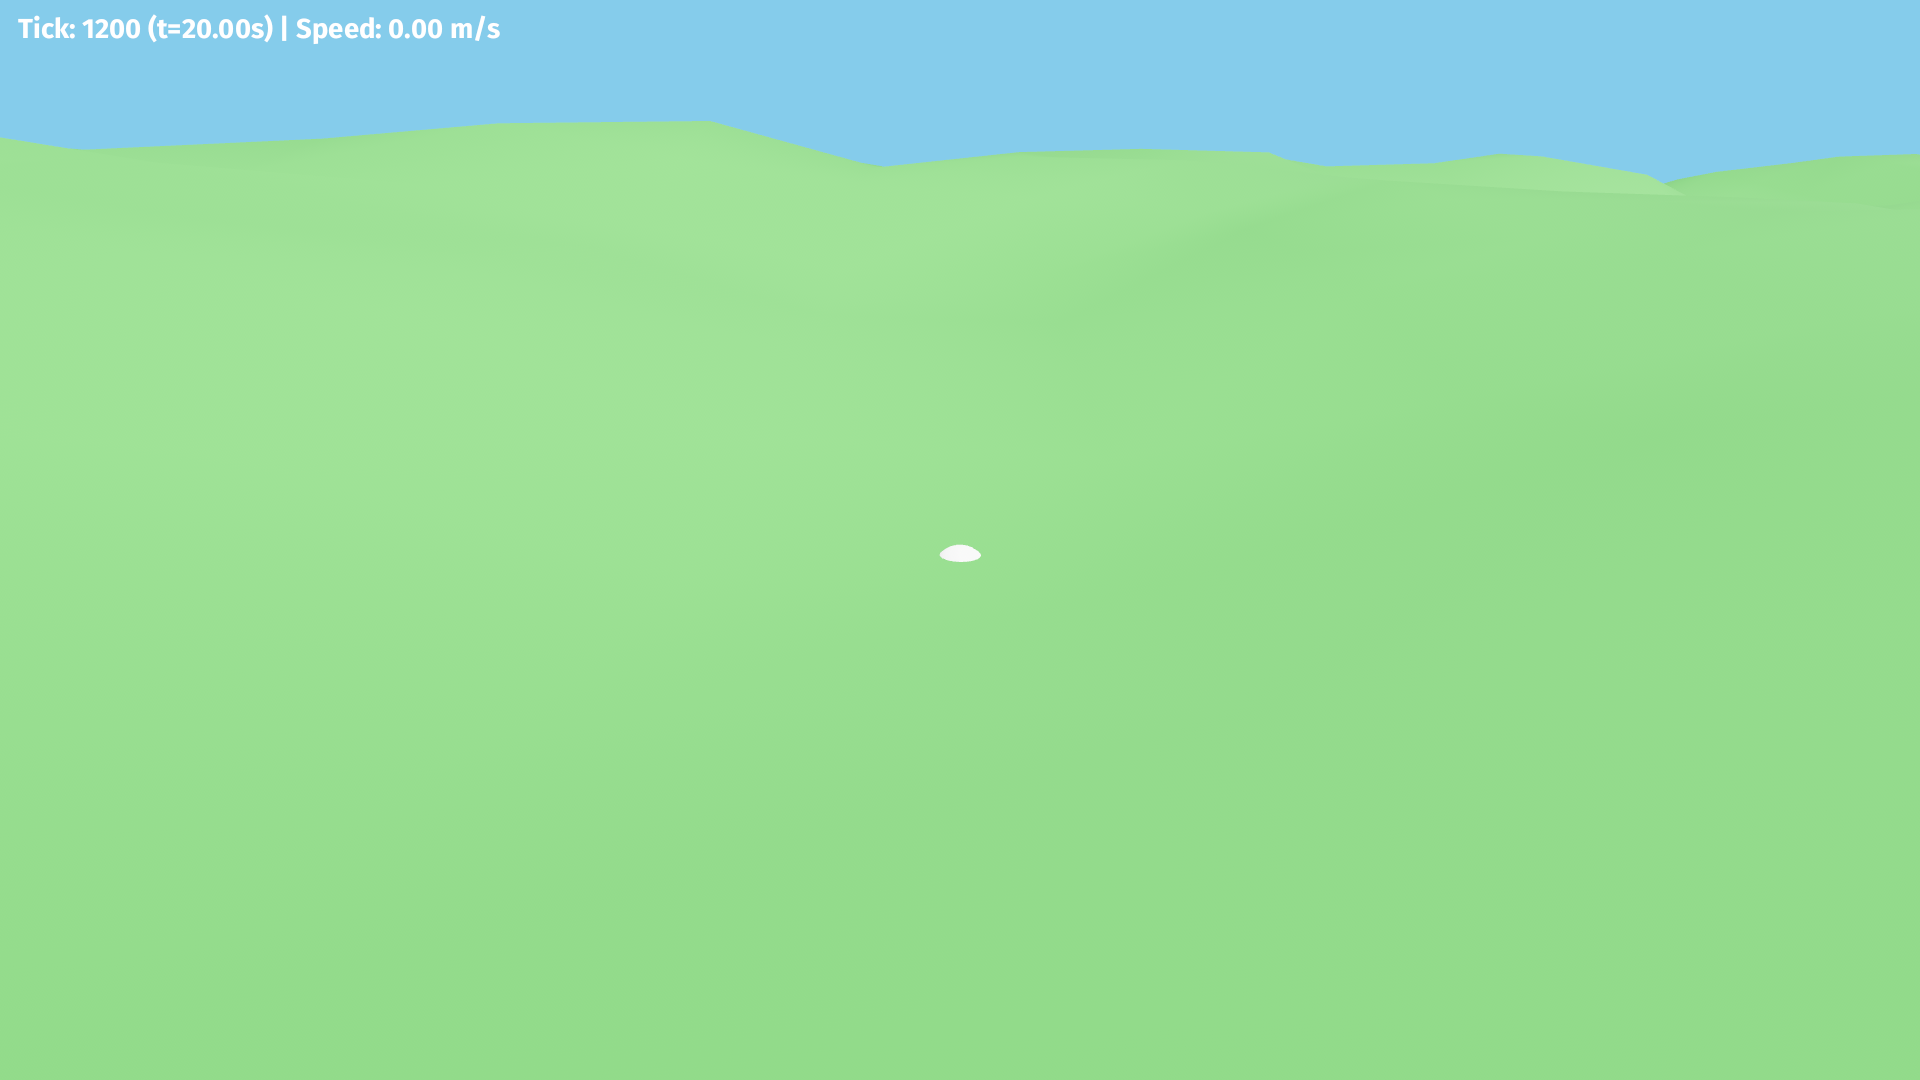
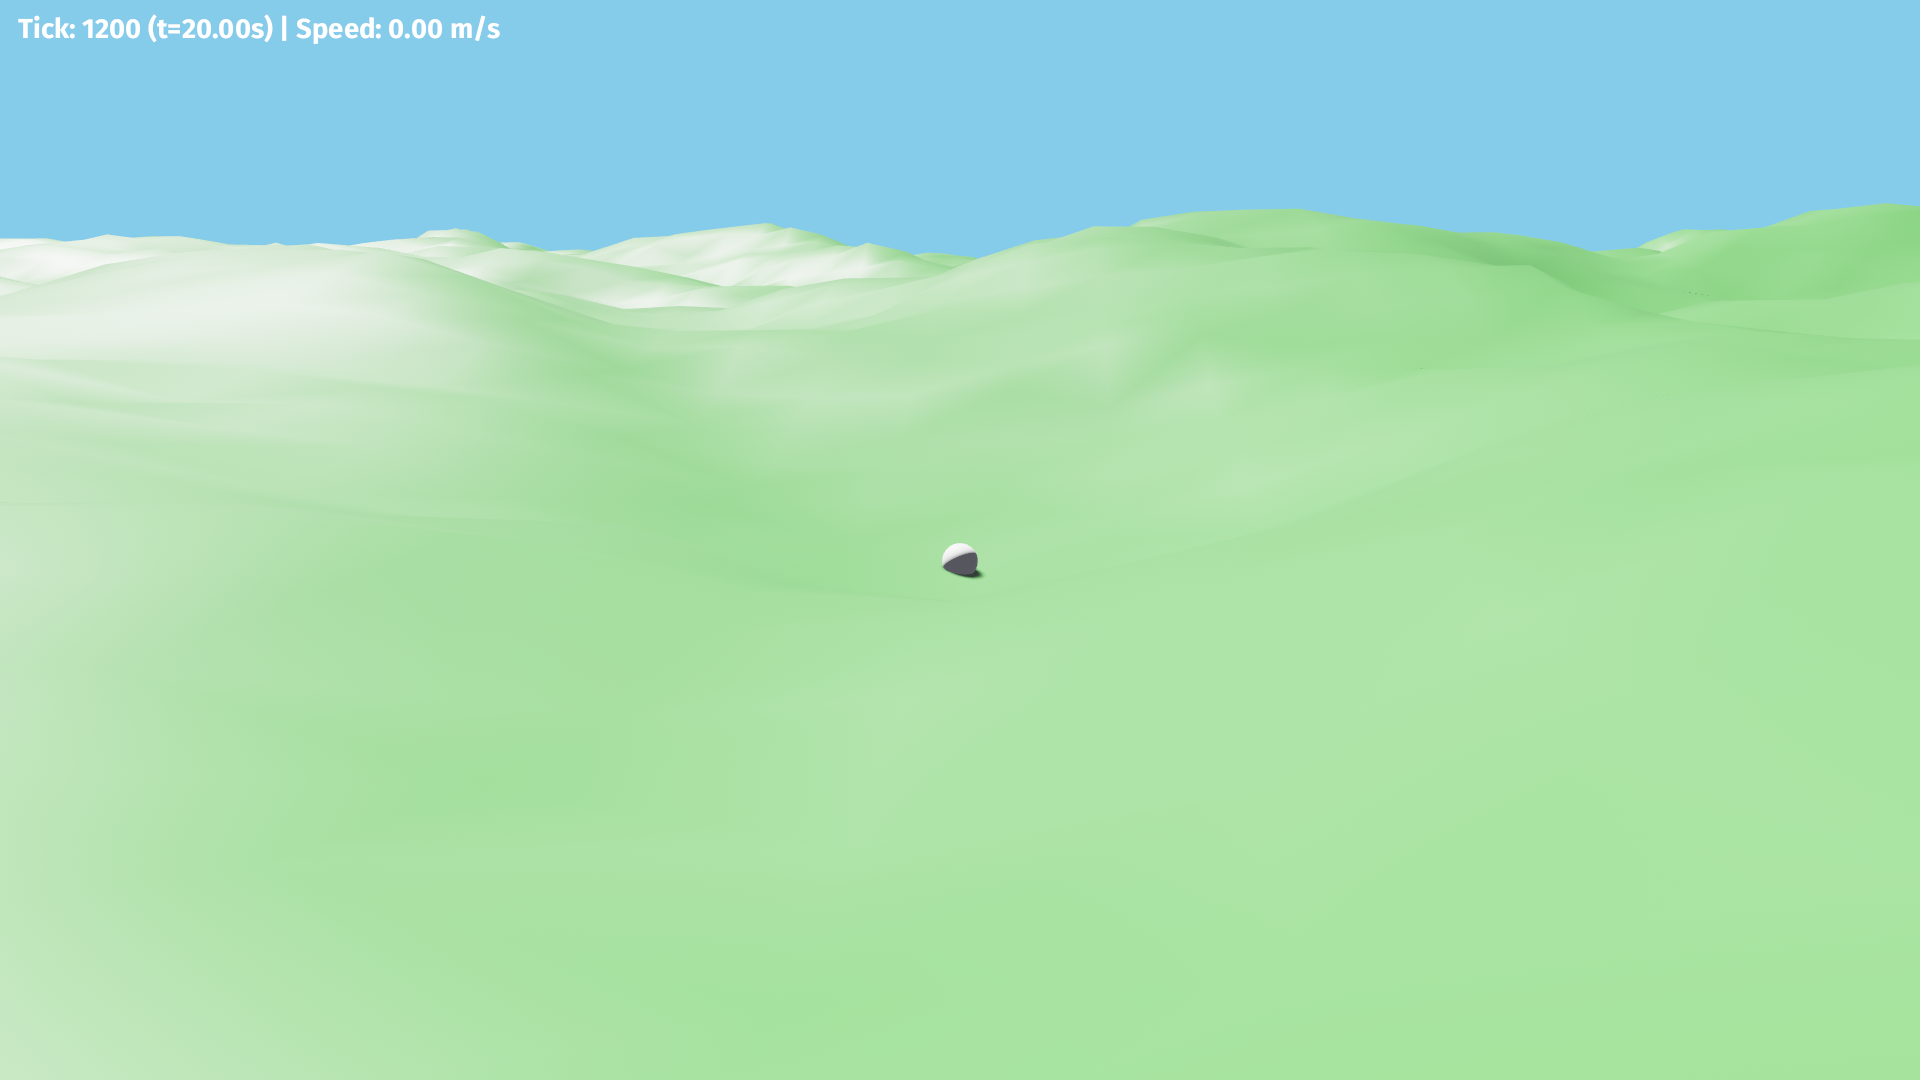
much better

diff --git a/src/plugins/camera.rs b/src/plugins/camera.rs
@@ -1,5 +1,6 @@
 use bevy::prelude::*;
 use bevy::input::mouse::{MouseMotion, MouseWheel};
+use bevy::window::{PrimaryWindow, CursorGrabMode};
 use crate::plugins::scene::Ball;
 use crate::plugins::terrain::TerrainSampler;
 
@@ -56,11 +57,37 @@ impl Default for OrbitCameraState {
 }
 
 pub struct CameraPlugin;
+
+/// Tracks whether the cursor is currently locked for orbit control.
+#[derive(Resource, Default)]
+pub struct OrbitCaptureState {
+    pub captured: bool,
+}
 impl Plugin for CameraPlugin {
     fn build(&self, app: &mut App) {
         app.insert_resource(OrbitCameraConfig::default())
             .insert_resource(OrbitCameraState::default())
-            .add_systems(Update, (orbit_camera_input, orbit_camera_apply));
+            .insert_resource(OrbitCaptureState::default())
+            .add_systems(Update, (orbit_camera_capture, orbit_camera_input, orbit_camera_apply));
+    }
+}
+
+fn orbit_camera_capture(
+    buttons: Res<ButtonInput<MouseButton>>,
+    mut windows: Query<&mut Window, With<PrimaryWindow>>,
+    mut cap: ResMut<OrbitCaptureState>,
+) {
+    if let Ok(mut win) = windows.get_single_mut() {
+        let want = buttons.pressed(MouseButton::Right);
+        if want && !cap.captured {
+            win.cursor.visible = false;
+            win.cursor.grab_mode = CursorGrabMode::Locked;
+            cap.captured = true;
+        } else if !want && cap.captured {
+            win.cursor.visible = true;
+            win.cursor.grab_mode = CursorGrabMode::None;
+            cap.captured = false;
+        }
     }
 }
 

diff --git a/src/plugins/terrain.rs b/src/plugins/terrain.rs
@@ -36,8 +36,8 @@ impl Default for TerrainConfig {
             detail_octaves: 5,
             warp_frequency: 0.020,      // warp scale
             warp_amplitude: 6.0,        // horizontal distortion strength
-            chunk_size: 384.0,          // much larger play area
-            resolution: 96,             // lower density -> less regular grid
+            chunk_size: 384.0,          // play area size
+            resolution: 192,            // higher density for smoother surface (was 96)
         }
     }
 }
